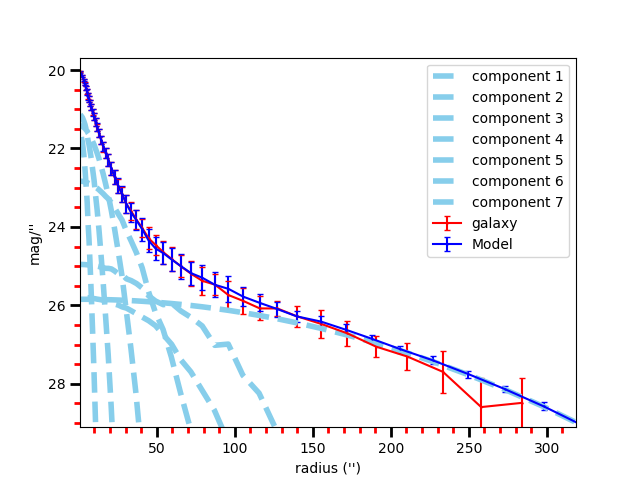
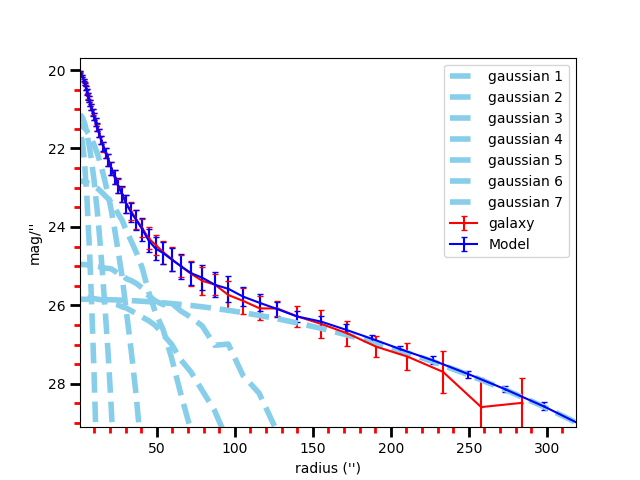
Now the --sub option display the name of the component
Changes to be committed:
	modified:   EllipSectGalfit.py
	modified:   img/A85.sub.png

Changed region(s): [[0.6562, 0.125, 0.875, 0.5312]]

diff --git a/EllipSectGalfit.py b/EllipSectGalfit.py
@@ -209,8 +209,8 @@ def main():
 
     limx,limy=EllipSectors(galpar, params, n_sectors=numsectors, minlevel=minlevel)
 
-
-    params.Comps,params.N=ReadNComp(params.galfile,galpar.xc,galpar.yc)
+    
+    params.Comps,params.N,params.NameComps=ReadNComp(params.galfile,galpar.xc,galpar.yc)
 
     print("Number of components = ",params.N)
 
@@ -284,7 +284,8 @@ class InputParams:
     # init sub values
     Comps=np.array([False])
     N=0
-
+    NameComps=np.array(["none"])
+    
 
     #input file
     galfile= "galfit.01"
@@ -503,9 +504,9 @@ def EllipSectors(galpar, params, n_sectors=19, minlevel=0):
 
 
         # read number of components
-        params.Comps,params.N=ReadNComp(params.galfile,galpar.xc,galpar.yc)
+        params.Comps,params.N,params.NameComps=ReadNComp(params.galfile,galpar.xc,galpar.yc)
 
-        xradq,ysbq,n=SubComp(params.namesub,params.N,params.Comps,galpar.mgzpt,galpar.exptime,galpar.scale,galpar.xc,galpar.yc,galpar.q,galpar.ang,params.flagpix,axsec,skylevel=galpar.skylevel,
+        xradq,ysbq,n=SubComp(params.namesub,params.N,params.Comps,params.NameComps,galpar.mgzpt,galpar.exptime,galpar.scale,galpar.xc,galpar.yc,galpar.q,galpar.ang,params.flagpix,axsec,skylevel=galpar.skylevel,
               n_sectors=n_sectors, badpixels=badpixels, minlevel=minlevel)
 
 
@@ -646,7 +647,7 @@ def PlotSB(xradq,ysbq,ysberrq,xradm,ysbm,ysberrm,params,scale):
 
 
 
-def SubComp(namesub,N,Comps,mgzpt,exptime,scale,xc,yc,q,ang,flagpix,axsec,skylevel=0,
+def SubComp(namesub,N,Comps,NameComps,mgzpt,exptime,scale,xc,yc,q,ang,flagpix,axsec,skylevel=0,
     n_sectors=19, badpixels=None, minlevel=0):
 
     errmsg="file {} does not exist".format(namesub)
@@ -703,6 +704,8 @@ def SubComp(namesub,N,Comps,mgzpt,exptime,scale,xc,yc,q,ang,flagpix,axsec,skylev
     while(n<N):
 
         subim=subimgs[n]
+        
+        namec=NameComps[n]
 
         scmp = sectors_photometry(subim, eps, angsec, xctemp, yctemp,minlevel=minlevel,
                 plot=0, badpixels=maskb, n_sectors=n_sectors)
@@ -737,7 +740,7 @@ def SubComp(namesub,N,Comps,mgzpt,exptime,scale,xc,yc,q,ang,flagpix,axsec,skylev
         xradq, ysbq, ysberrq    = FindSB(xarcg, ymgeg, n_sectors)
 
 
-        PlotSub(xradq,ysbq,n,axsec)
+        PlotSub(xradq,ysbq,n,axsec,namec)
 
         n=n+1
 
@@ -745,13 +748,13 @@ def SubComp(namesub,N,Comps,mgzpt,exptime,scale,xc,yc,q,ang,flagpix,axsec,skylev
     return  xradq,ysbq,n
 
 
-def PlotSub(xradq,ysbq,nsub,axsec):
+def PlotSub(xradq,ysbq,nsub,axsec,namec):
     """
     Produces subcomponent plot
 
     """
 
-    substr="component "+np.str(nsub+1)
+    substr=namec+" "+np.str(nsub+1)
 
     axsec.plot(xradq, ysbq,'--',color='skyblue',linewidth=4,markersize=0.7,label=substr)
 
@@ -1388,6 +1391,8 @@ def ReadNComp(inputf,X,Y):
 
     Ncomp=0
     Comps=[]
+    NameComps=[]
+
     while index < len(lines):
 
         line = lines[index]
@@ -1406,6 +1411,7 @@ def ReadNComp(inputf,X,Y):
         if tmp[0] == "0)":
 
             if (tmp[1] != "sky"):
+                namec=tmp[1] 
                 while (tmp[0] != "Z)"):
 
                     index += 1
@@ -1419,6 +1425,7 @@ def ReadNComp(inputf,X,Y):
                         dist = np.sqrt((xc-X)**2+(yc-Y)**2)
                         if (dist < 3):
                             Comps=np.append(Comps,True)
+                            NameComps=np.append(NameComps,namec)
                             Ncomp=Ncomp + 1
                         else:
                             Comps=np.append(Comps,False)
@@ -1436,7 +1443,7 @@ def ReadNComp(inputf,X,Y):
     GalfitFile.close()
 
 
-    return Comps,Ncomp
+    return Comps,Ncomp,NameComps
 
 def GetExpTime(Image):
     "Get exposition time from the image"
